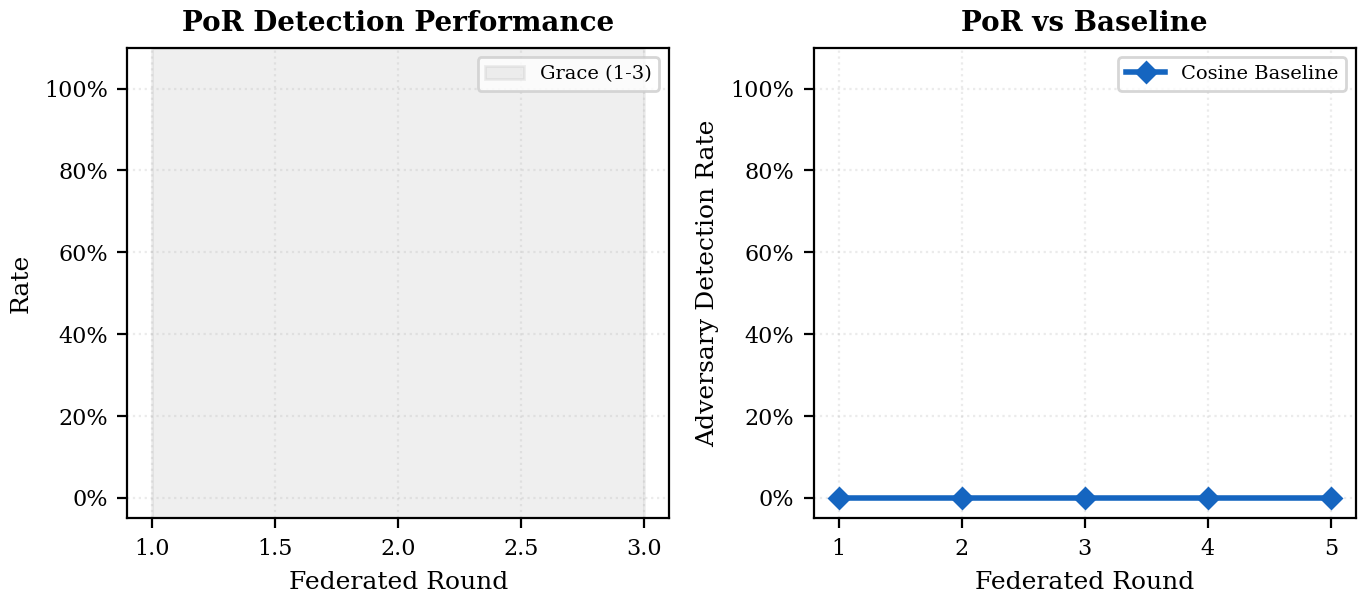
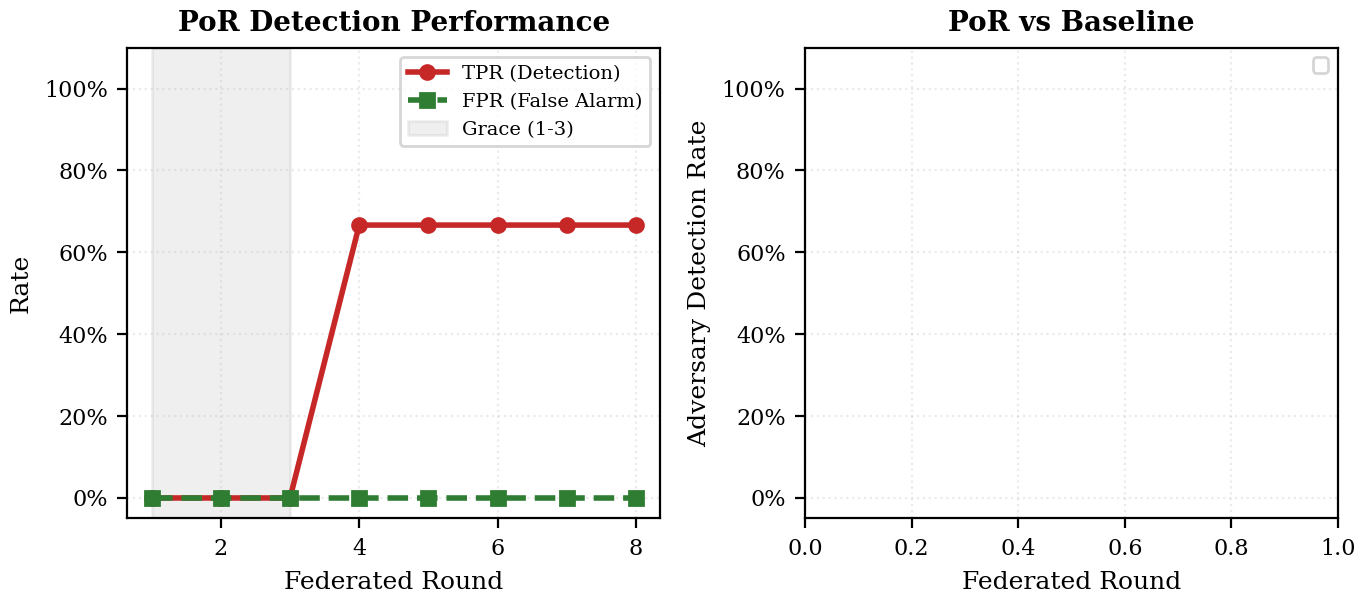
paper graphs and model runs

diff --git a/eval/paper_graphs/paper_tables.tex b/eval/paper_graphs/paper_tables.tex
@@ -1,5 +1,5 @@
 % Auto-generated by eval/generate_paper_graphs.py
-% Generated: 2026-06-07 02:15:46
+% Generated: 2026-06-08 01:04:56
 
 \begin{table}[h]\centering
 \caption{Per-Adversary-Type Detection Performance (Finance Domain)}
